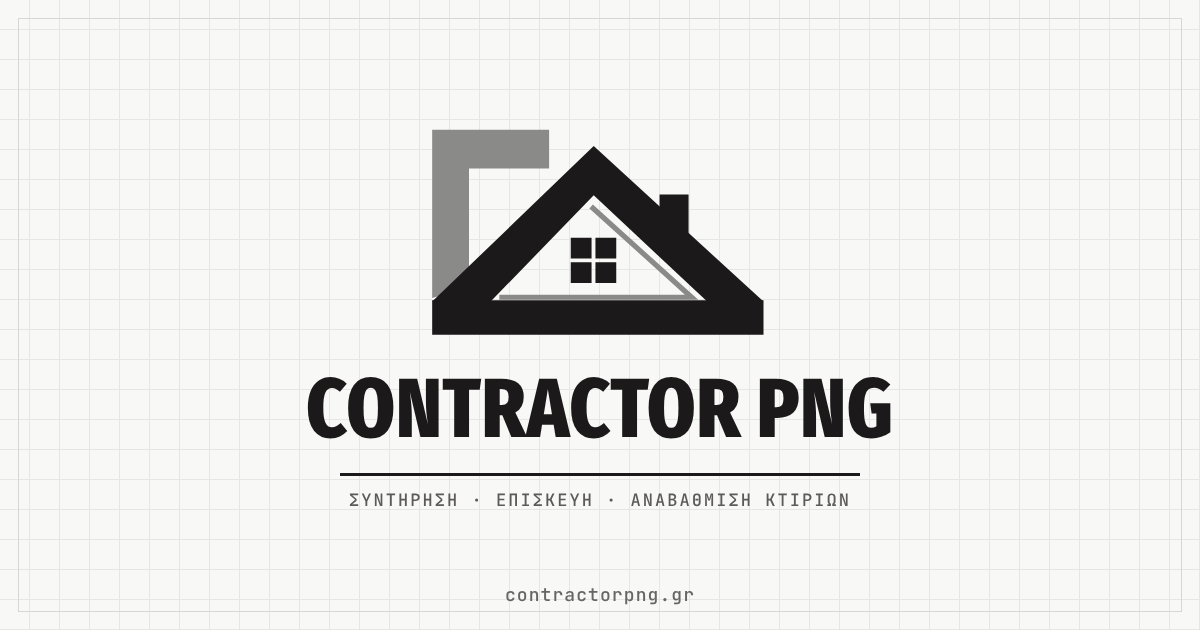
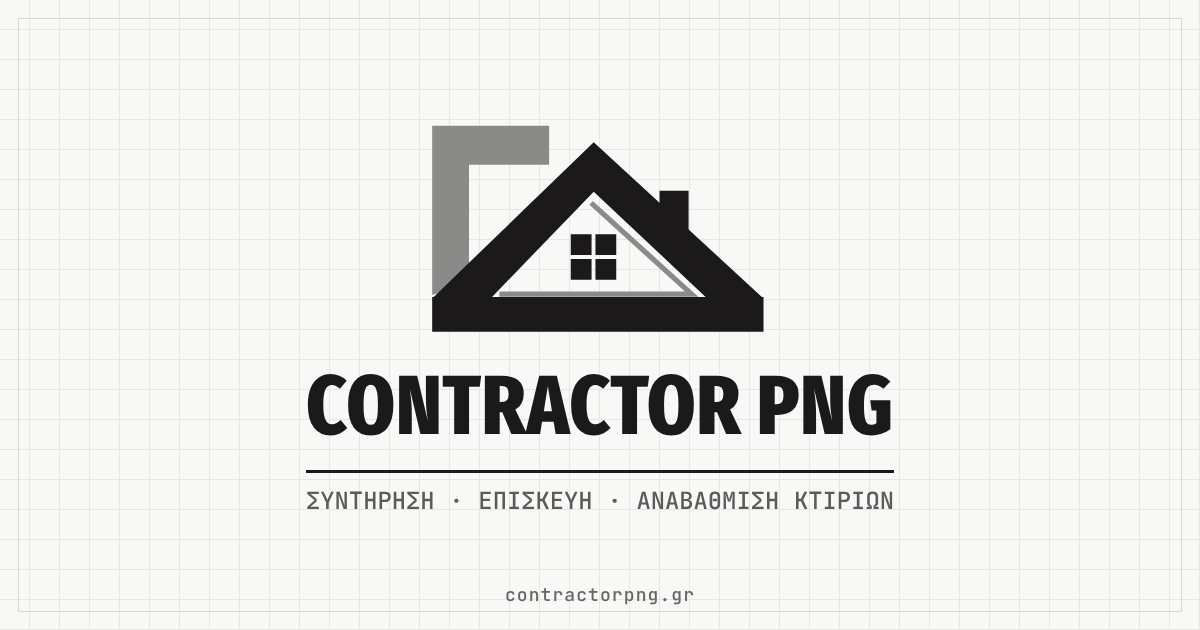
Στοίχιση: το «συντήρηση · επισκευή · αναβάθμιση» πιάνει ακριβώς το πλάτος του ονόματος
- κεφαλίδα: όνομα 27px, γραμμή κάτω ίδιου πλάτους, σήμα ίδιου ύψους με το κείμενο
- εικόνα κοινοποίησης: όνομα, γραμμή και υπότιτλος στο ίδιο πλάτος

Claude-Session: https://claude.ai/code/session_018JWRoT24wDmLmvP57Z3umL

diff --git a/src/styles/global.css b/src/styles/global.css
@@ -43,9 +43,10 @@ header{position:sticky;top:env(safe-area-inset-top,0px);z-index:9;background:var
 .nav{display:flex;align-items:center;justify-content:space-between;gap:24px;padding-block:12px}
 .brand{display:flex;align-items:center;gap:12px;min-height:44px;text-decoration:none}
 
-.brand-mark{height:36px;width:auto;display:block;flex:none}
-.brand-name{font:800 22px/1 var(--display);letter-spacing:.02em;text-transform:uppercase}
-.brand-name small{display:block;font:500 10px/1.3 var(--mono);letter-spacing:.14em;color:var(--grey-ink);margin-top:3px}
+.brand-mark{height:40px;width:auto;display:block;flex:none}
+.brand-name{display:inline-flex;flex-direction:column;font:800 27px/.9 var(--display);letter-spacing:.01em;text-transform:uppercase}
+/* Tagline takes exactly the width of the name and spreads across it */
+.brand-name small{display:block;width:0;min-width:100%;font:500 9.5px/1 var(--mono);letter-spacing:0;color:var(--grey-ink);margin-top:5px;text-align:justify;text-align-last:justify;white-space:nowrap}
 .nav ul{display:flex;gap:28px;list-style:none;margin:0;padding:0;font-size:14px}
 .nav ul a{text-decoration:none;color:var(--ink-2);display:inline-flex;align-items:center;min-height:44px}
 .nav ul a:hover{color:var(--ink);text-decoration:underline;text-underline-offset:6px}
@@ -68,8 +69,8 @@ header{position:sticky;top:env(safe-area-inset-top,0px);z-index:9;background:var
 @media (max-width:480px){
   .nav{gap:8px}
   .brand{gap:10px}
-  .brand-mark{height:28px}
-  .brand-name{font-size:18px}
+  .brand-mark{height:30px}
+  .brand-name{font-size:21px}
   .brand-name small{display:none}
   .nav .btn{padding:11px 12px}
   .nav .btn .full{display:none}

diff --git a/design/og-image.html b/design/og-image.html
@@ -8,11 +8,12 @@ body{width:1200px;height:630px;background:#F8F8F7;position:relative;overflow:hid
 background-image:linear-gradient(#E6E6E3 1px,transparent 1px),linear-gradient(90deg,#E6E6E3 1px,transparent 1px);background-size:30px 30px;background-position:-1px -1px}
 .box{position:absolute;inset:0;display:flex;flex-direction:column;align-items:center;justify-content:center}
 img{width:340px;height:auto}
-h1{margin:30px 0 0;font-weight:800;font-size:84px;line-height:1;letter-spacing:.01em}
-p{margin:16px 0 0;font:500 17px/1 M;letter-spacing:.12em;color:#5C5B59}
-.rule{width:520px;height:3px;background:#1B1919;margin-top:22px}
+h1{margin:0;font-weight:800;font-size:84px;line-height:1;letter-spacing:.01em}
+p{margin:16px 0 0;width:0;min-width:100%;font:500 23.8px/1 M;color:#5C5B59;text-align:justify;text-align-last:justify;white-space:nowrap}
+.name{display:inline-flex;flex-direction:column;margin-top:30px}
+.rule{width:100%;height:3px;background:#1B1919;margin-top:22px}
 .url{position:absolute;bottom:26px;left:0;right:0;text-align:center;font:500 18px/1 M;color:#666765;letter-spacing:.06em}
 .frame{position:absolute;inset:18px;border:1px solid #D6D6D3}
 </style></head><body><div class="frame"></div><div class="box">
-<img src="../public/assets/mark.svg"><h1>CONTRACTOR PNG</h1><div class="rule"></div><p>ΣΥΝΤΗΡΗΣΗ · ΕΠΙΣΚΕΥΗ · ΑΝΑΒΑΘΜΙΣΗ ΚΤΙΡΙΩΝ</p></div>
+<img src="../public/assets/mark.svg"><div class="name"><h1>CONTRACTOR PNG</h1><div class="rule"></div><p>ΣΥΝΤΗΡΗΣΗ · ΕΠΙΣΚΕΥΗ · ΑΝΑΒΑΘΜΙΣΗ ΚΤΙΡΙΩΝ</p></div></div>
 <div class="url">contractorpng.gr</div></body></html>
